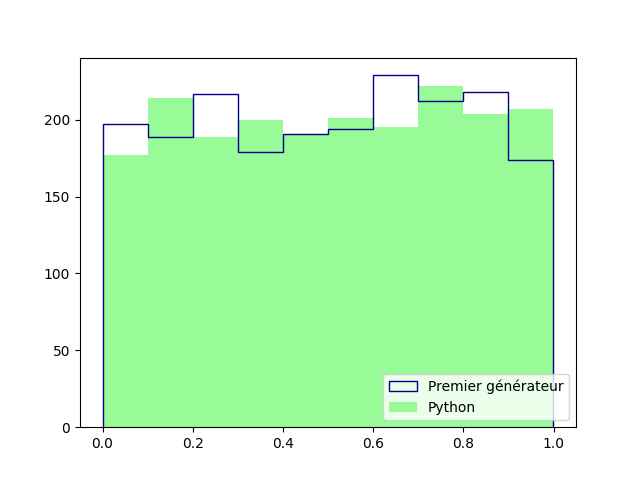
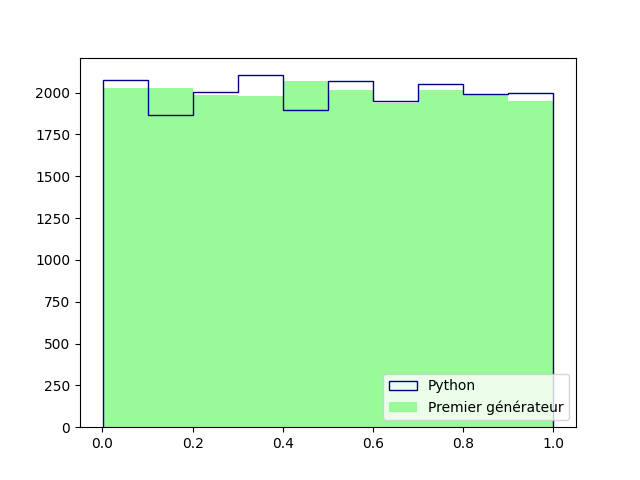
fix error in complete-labels

diff --git a/main.py b/main.py
@@ -41,8 +41,8 @@ if __name__ == '__main__':
           f"{chi_squared_uniform(e_counts)}")
 
     ### Test du Poker
-    #print(f"Test du Poker pour les décimales : \n"
-    #      f"{poker_test(e_numbers)}")
+    print(f"Test du Poker pour les décimales : \n"
+          f"{poker_test(e_numbers)}")
 
     ### Test du gap
     print(f"Test du Gap pour les décimales : \n "
@@ -53,9 +53,9 @@ if __name__ == '__main__':
     rng1 = Generator1(50)
     rng2 = Generator2(50)
     rng3 = Generator3(50)
-    gen_numbers_1 = [rng1.random() for _ in range(2000)]
-    gen_numbers_2 = [rng2.random() for _ in range(2000)]
-    gen_numbers_3 = [rng3.random() for _ in range(2000)]
+    gen_numbers_1 = [rng1.random() for _ in range(20000)]
+    gen_numbers_2 = [rng2.random() for _ in range(20000)]
+    gen_numbers_3 = [rng3.random() for _ in range(20000)]
 
     print(f"Résultats des générateurs : \n"
           f"Générateur 1 : {split_in_groups(gen_numbers_1)} \n"

diff --git a/gap.py b/gap.py
@@ -33,22 +33,22 @@ def gap_test_discrete(data, a: int = 0, b: int = 5, total_numbers: int = 10):
 def complete_labels(labels, observed):
     res_labels = []
     res_observed = []
-    n = 0
     j = 0
+    i = 0
     for expected in range(1, np.max(labels) + 1):
-        label = labels[j - n]
+        label = labels[i]
         if expected != label:
             res_labels.append(expected)
             res_observed.append(0)
-            n += 1
         else:
             res_labels.append(label)
-            res_observed.append(observed[j - n])
+            res_observed.append(observed[i])
             j += 1
+            i += 1
     return res_observed
 
 
-def gap_test_continue(data, a = 0.0, b = 0.5):
+def gap_test_continue(data, a=0.0, b=0.5):
     assert a < b
     proba = b - a  # => proba 1/2 d'être marqué
     return gap_test(data, proba, a, b)

diff --git a/kolmogorov_smirnov.py b/kolmogorov_smirnov.py
@@ -7,5 +7,5 @@ def kolmogorov_smirnov(numbers):
     np.sort(numbers)
     n = len(numbers)
     distance = np.max(np.array([np.abs((i/n)-numbers[i]) for i in range(len(numbers))]))
-    critical = 1.358/math.sqrt(n)
+    critical = (1.358/math.sqrt(n))
     return distance < critical, distance, critical
